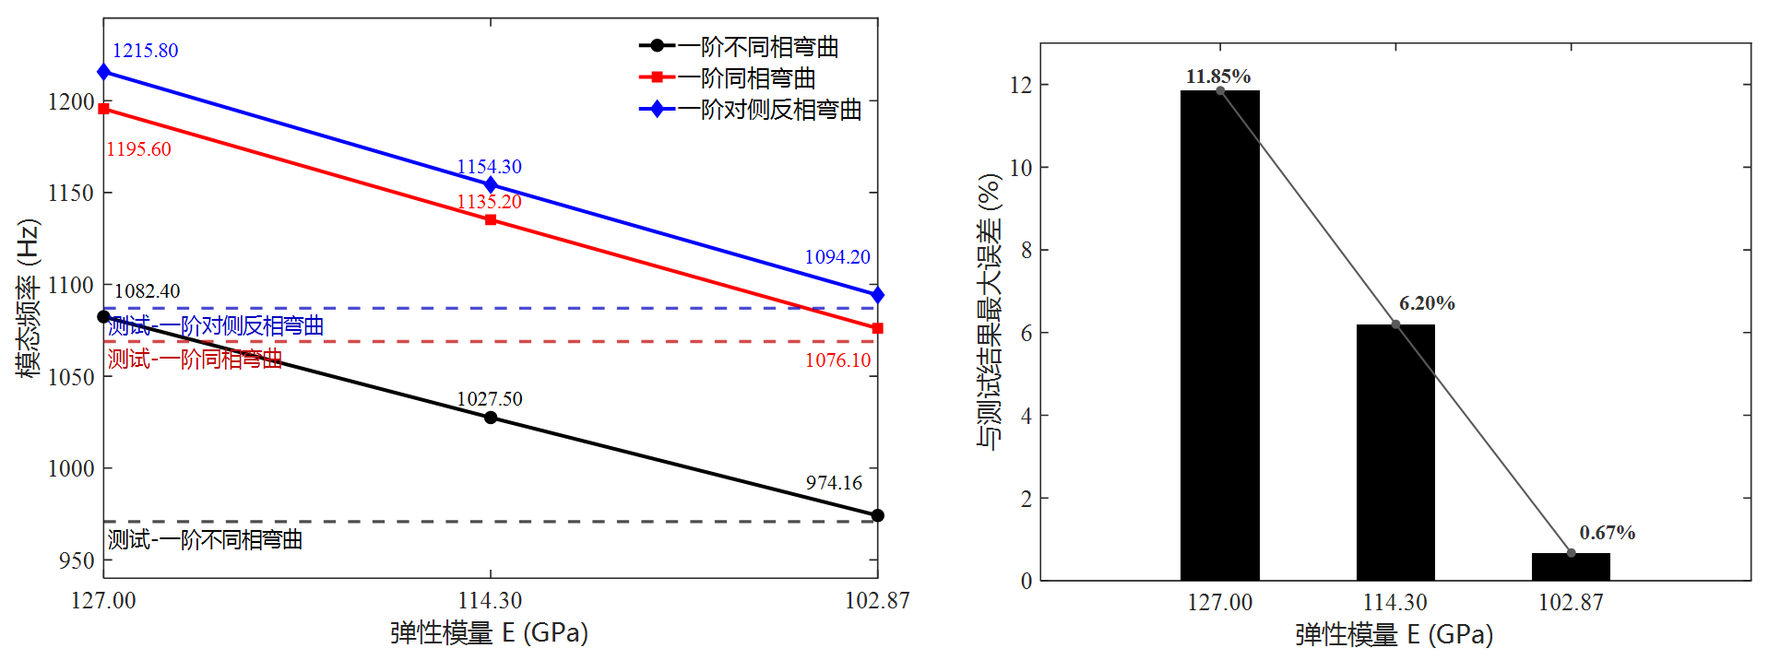
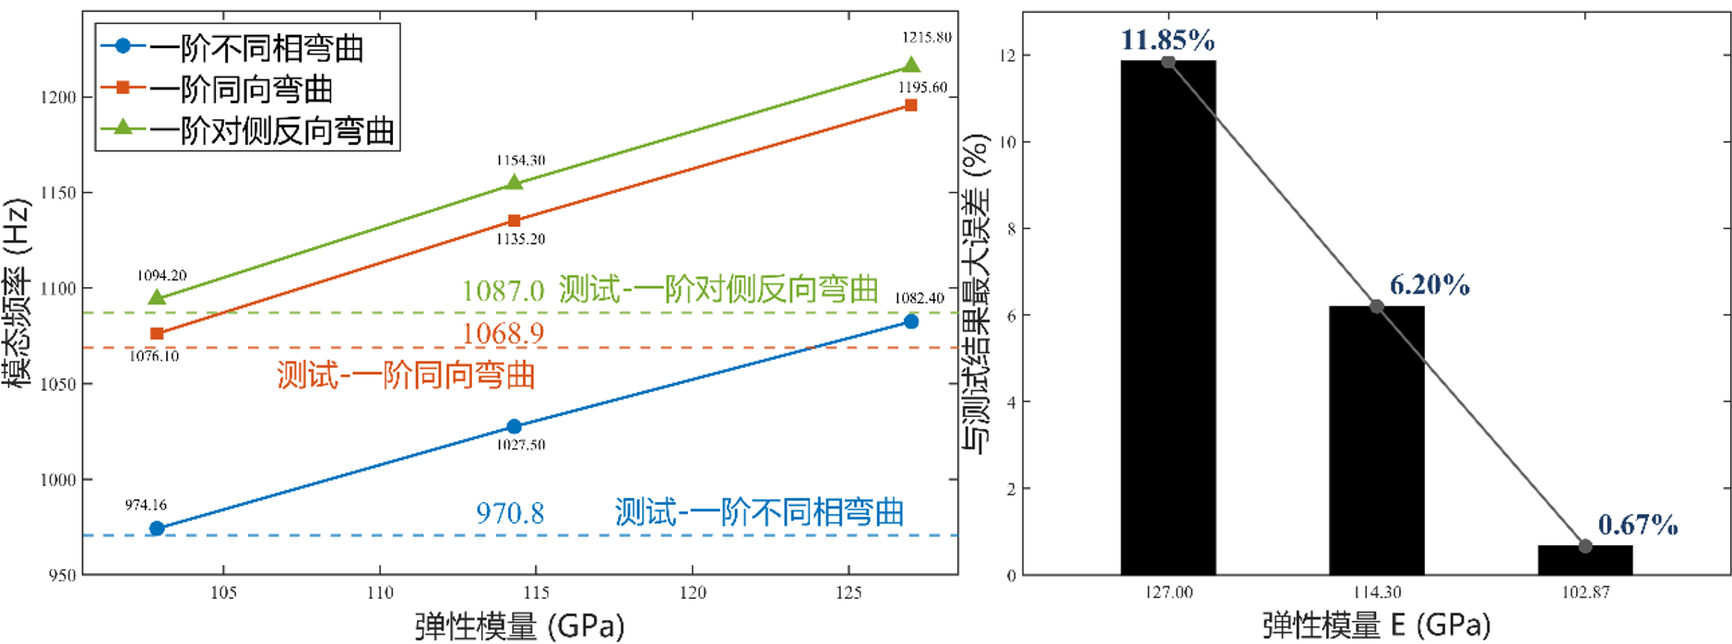
last version

diff --git a/pages/chapter5.tex b/pages/chapter5.tex
@@ -1,15 +1,23 @@
 \chapter{总结与展望}
 
-本文面向船用螺旋桨模态频率快速预测问题，围绕“有限元高精度仿真—模态测试验证—机器学习快速预测”这一技术路线开展研究。通过建立螺旋桨干/湿模态有限元仿真规程、开展模态测试验证，并构建干模态频率数据库，训练机器学习预测模型，最终形成了基于干模态预测结果和附连水修正系数的湿模态频率快速预报方法。
+\section{全文总结}
 
-在螺旋桨模态仿真方面，本文在有限元模态分析理论的基础上，建立了螺旋桨干模态与湿模态仿真计算规程。针对螺旋桨几何形状复杂、叶片厚度变化明显、局部模态对网格质量敏感等特点，从网格类型、网格尺寸、材料参数设置和求解流程等方面进行了规范化分析，确定了适用于螺旋桨干模态计算的有限元建模方法。在湿模态仿真方面，建立了结构域与流体域耦合模型，通过声学流体单元和结构-流体界面约束实现湿模态频率求解。以 DTMB4382 型螺旋桨为对象，应用该规程开展干/湿模态计算，获得了前 20 阶干模态频率和湿模态频率，并计算得到前 20 阶附连水频率修正系数，为后续湿模态快速预测提供了基础。
+本文面向船用螺旋桨模态频率快速预测问题，围绕“有限元高精度仿真--模态测试验证--机器学习快速预测”这一技术路线开展研究。通过建立螺旋桨干/湿模态有限元仿真规程、开展模态测试验证，并构建干模态频率数据库，训练机器学习预测模型，最终形成了基于干模态预测结果和附连水修正系数的湿模态频率快速预报方法。
+
+在螺旋桨模态仿真方面，本文在有限元模态分析理论的基础上，建立了螺旋桨干模态与湿模态仿真计算规程。针对螺旋桨几何形状复杂、叶片厚度变化明显、局部模态对网格质量敏感等特点，从网格类型、网格尺寸、材料参数设置和求解流程等方面进行了规范化分析，确定了适用于螺旋桨干模态计算的有限元建模方法。在湿模态仿真方面，建立了结构域与流体域耦合模型，通过声学流体单元和结构--流体界面约束实现湿模态频率求解。以 DTMB4382 型螺旋桨为对象，应用该规程开展干/湿模态计算，获得了前 20 阶干模态频率和湿模态频率，并计算得到前 20 阶附连水频率修正系数，为后续湿模态快速预测提供了基础。
 
 在数据库构建方面，本文基于参数化建模和自动化仿真技术，实现了螺旋桨干模态频率数据库的自动化构建。通过 Python 与 CadQuery 生成螺旋桨三维实体模型，利用 HyperMesh 批处理脚本完成模型导入与网格自动划分，并借助 Abaqus Python 脚本实现模态分析任务自动提交、结果读取和数据汇总。该流程将几何建模、网格划分、有限元求解和频率提取等步骤串联起来，形成了较完整的自动化仿真流程，构建了干模态频率数据库，为后续机器学习模型训练提供了数据基础。
 
 在螺旋桨模态测试方面，本文在讲述模态测试基本原理的基础上，开展了螺旋桨干模态与湿模态测试研究。针对高阶湿模态测试中存在的振型复杂、模态成簇、频响峰值衰减和信噪比较低等问题，建立了基于移动力锤法、加速度响应频响函数测试和模态参数辨识的测试流程。分别以某 10 叶螺旋桨和某 7 叶螺旋桨为对象，开展空气中和水中条件下的模态测试，获得了不同螺旋桨在干/湿模态下的频率与振型特征。其中，对 7 叶螺旋桨进一步开展干/湿模态有限元计算，并将仿真结果与测试结果进行对比。结果表明，计算频率与测试频率吻合较好，主要振型对应关系明确，说明本文建立的有限元仿真规程能够较准确地反映螺旋桨干/湿模态动力学特性。
 
-在机器学习预测方面，本文基于干模态频率数据库开展模型训练。首先采用 Pearson 相关系数和 Spearman 相关系数分析原始几何参数与模态频率之间的关系，筛选出相关系数均大于 0.1 的 24 个几何参数作为模型输入，实现输入变量降维。随后，分别训练随机森林回归、梯度提升回归、高斯过程回归和多层感知机四种模型，并采用随机搜索算法进行超参数优化。利用 MAE、RMSE、$R^2$ 和 MAPE 四种指标对模型性能进行评价后发现，多层感知机模型表现最优，其测试集整体 MAE 为 5.133937，RMSE 为 7.445019，$R^2$ 为 0.996914，MAPE 为 1.889931\%。该结果说明 MLP 能够较好学习螺旋桨关键几何参数与前 20 阶干模态频率之间的非线性映射关系，预测结果与有限元计算结果吻合程度较高。最后，本文将 MLP 预测得到的干模态频率与附连水频率修正系数结合，提出了以螺旋桨几何参数为输入、以干模态频率预测为基础，并结合附连水系数进行频率修正，最终获得湿模态频率的快速预测流程。
+在机器学习预测方面，本文基于干模态频率数据库开展模型训练。首先采用 Pearson 相关系数和 Spearman 相关系数分析原始几何参数与模态频率之间的关系，筛选出相关系数均大于 0.1 的 24 个几何参数作为模型输入，实现输入变量降维。随后，分别训练随机森林回归、梯度提升回归、高斯过程回归和多层感知机四种模型，并采用随机搜索算法进行超参数优化。利用 MAE、RMSE、$R^2$ 和 MAPE 四种指标对模型性能进行评价后发现，多层感知机模型表现最优，其测试集整体 MAE 为 5.133937，RMSE 为 7.445019，$R^2$ 为 0.996914，MAPE 为 1.889931\%。该结果说明 MLP 能够较好学习螺旋桨关键几何参数与前 20 阶干模态频率之间的非线性映射关系，预测结果与有限元计算结果吻合程度较高。最后，本文将 MLP 预测得到的干模态频率与附连水频率修正系数结合，提出了“几何参数输入--干模态频率预测--附连水系数修正--湿模态频率输出”的螺旋桨湿模态频率快速预测流程。
 
-不足与展望：本文仍存在一些不足。首先，本文主要完成了螺旋桨前 20 阶模态频率预测，尚未对更高阶局部模态进行系统建模；其次，湿模态频率主要通过干模态预测结果与附连水修正系数相乘得到，预测精度受修正系数适用范围限制。后续可在计算资源充足的条件下，进一步构建“螺旋桨几何参数—湿模态频率”数据库，直接训练湿模态预测模型，并结合更多试验数据提高模型的泛化能力和工程适用性。
+\section{未来展望}
 
-本文建立了从螺旋桨高精度有限元仿真、试验验证、自动化数据库构建到机器学习快速预测的完整研究路线。该方法能够在一定程度上减少传统有限元方法在多方案分析中反复建模和求解的计算成本，提高螺旋桨模态频率评估效率，为船用螺旋桨结构设计、模态避频分析和湿模态快速预报提供了一种可行的工程方法。
+本文围绕船用螺旋桨模态频率快速预测问题，建立了基于有限元仿真与机器学习代理模型的预测方法，并实现了由几何参数到干、湿模态频率的快速估计。但受研究周期、样本规模和建模方法的限制，仍存在进一步完善的空间：
+
+可以进一步开展高阶模态预测研究。本文主要针对螺旋桨前 20 阶模态频率开展预测研究，预测对象以低阶和中阶模态为主，而对 20 阶以上高阶局部模态的研究仍不充分。实际工作中，高阶局部模态可能与叶片局部振动、噪声辐射以及复杂流场激励有关，后续可进一步构建包含更高阶模态频率的数据库，提升模型对高阶局部振动特性的预测能力。
+
+可以进一步提高湿模态频率预测精度。本文湿模态频率预测采用“干模态频率预测结果结合附连水系数修正”的方法。该方法计算效率较高，但附连水系数本身受到螺旋桨几何形状、模态阶次、流体域建模范围和流固耦合计算精度等因素影响，因此其修正精度仍存在一定局限。后续可进一步扩大湿模态仿真样本数量，直接建立“螺旋桨几何参数--湿模态频率”数据库，从而减少附连水系数近似带来的误差。
+
+可以进一步扩展螺旋桨几何变量范围。本文样本集中螺旋桨翼型相对单一，主要关注直径、桨叶数、弦长和厚度等几何参数对模态频率的影响，尚未将翼型变化作为重要设计变量纳入模型输入。后续研究可将不同翼型参数引入样本设计，进一步扩充数据库规模，使机器学习模型能够学习翼型差异对螺旋桨刚度分布、质量分布及模态频率的影响规律，从而提高预测模型的适用范围和工程推广价值。

diff --git a/pages/enabstract.tex b/pages/enabstract.tex
@@ -1,7 +1,9 @@
 % 英文摘要
 
-Marine propellers are susceptible to complex vibration responses during operation due to non-uniform wake, blade-frequency excitation, and fluid–structure interaction. Their modal characteristics are directly related to the structural safety, vibration noise level, and service reliability of the propulsion system. Traditional finite element methods can calculate propeller modal frequencies with relatively high accuracy. However, in multi-parameter design and large-scale scheme evaluation, repeated geometric modeling, mesh generation, and finite element solution are required, resulting in high computational cost and low efficiency. Therefore, it is difficult to meet the demand for rapid prediction. To address this problem, this thesis proposes a rapid prediction method for the wet modal frequencies of marine propellers by combining high-precision finite element simulation, modal test validation, and machine learning surrogate models.
+Marine propellers are subjected to non-uniform wake, blade-frequency excitation, and fluid–structure interaction during operation, which may induce complex vibration responses. Their modal characteristics are directly related to the structural safety, vibration and noise performance, and service reliability of propulsion systems. Although conventional finite element methods can calculate propeller modal frequencies with relatively high accuracy, they require repeated geometric modeling, meshing, and finite element solution in multi-parameter design and large-scale scheme evaluation. As a result, their computational cost is high and their efficiency is insufficient for rapid prediction. To address this problem, this study proposes a rapid prediction method for the wet modal frequencies of marine propellers by integrating high-fidelity finite element simulation, modal test validation, and machine-learning surrogate modeling.
 
-In terms of high-precision finite element simulation, based on propeller modal analysis theory and finite element theory, a high-precision simulation procedure for dry and wet modal analysis of marine propellers is established. The key procedures, including element type selection, mesh size determination, material parameter setting and correction, and structural–fluid coupled modeling for wet modal analysis, are clarified. Taking the DTMB4382 propeller as an example, the first 20 dry and wet modal frequencies are calculated, and the corresponding added-water frequency correction coefficients are obtained, providing a basis for subsequent rapid prediction of wet modal frequencies. In terms of database construction, parameterized modeling and automated simulation techniques are combined. Python and CadQuery are used to generate three-dimensional propeller models, HyperMesh batch scripts are used for automatic mesh generation, and Abaqus Python scripts are used for modal calculation and frequency extraction. On this basis, a “propeller geometric parameters–dry modal frequencies” database is constructed, providing data support for machine learning model training. In terms of modal testing, a dry/wet modal testing procedure based on the moving hammer method, acceleration response frequency response function testing, and modal parameter identification is established. Dry and wet modal tests are carried out in air and water for a seven-bladed propeller and a ten-bladed propeller, respectively. The comparison between the simulation results and test results of the seven-bladed propeller verifies the accuracy and engineering applicability of the proposed simulation procedure.
+With respect to high-fidelity finite element simulation, a computational procedure for dry and wet modal analysis of propellers is established based on modal analysis theory and finite element theory. Key aspects such as element type selection, mesh size determination, material parameter setting and calibration, and coupled structural–fluid-domain modeling for wet modal analysis are specified. Taking the DTMB4382 propeller as an example, the first 20 dry and wet modal frequencies and the corresponding added-water frequency correction coefficients are obtained, providing a basis for subsequent rapid prediction of wet modal frequencies. In terms of database construction, parametric modeling and automated simulation techniques are combined. Three-dimensional propeller models are generated using Python and CadQuery, automatic meshing is performed through HyperMesh batch scripts, and modal calculations and frequency extraction are implemented using Abaqus Python scripts. A dry modal frequency database is thereby constructed to support machine-learning model training. In terms of modal testing, a dry/wet modal test procedure based on the roving hammer method, acceleration-response frequency response function measurement, and modal parameter identification is developed. Modal tests in air and water are conducted on a seven-bladed propeller and a ten-bladed propeller. The comparison between simulation and test results for the seven-bladed propeller verifies the accuracy and engineering applicability of the proposed simulation procedure.
 
-In terms of machine learning prediction, a dry modal frequency prediction model is developed based on the established “propeller geometric parameters–dry modal frequencies” database. First, Pearson correlation coefficients and Spearman correlation coefficients are used to analyze the correlation between the original geometric parameters and the first 20 dry modal frequencies. A total of 24 key geometric parameters, including propeller diameter, blade number, and the chord length and thickness at 11 radial sections, are selected as model inputs, thereby realizing input feature dimensionality reduction. Then, four machine learning models are constructed to predict the first 20 dry modal frequencies of the propeller, including Random Forest, Gradient Boosting Regression, Gaussian Process Regression, and Multi-Layer Perceptron. Random search is used for hyperparameter optimization. The prediction performance of the models is evaluated using four indicators: MAE, RMSE, R², and MAPE. The results show that the Multi-Layer Perceptron model achieves the best overall performance, with an MAE of 5.133937, an RMSE of 7.445019, an R² of 0.996914, and a MAPE of 1.889931\% on the test set. This indicates that the model can accurately learn the nonlinear mapping relationship between key propeller geometric parameters and dry modal frequencies. On this basis, the first 20 dry modal frequencies predicted by the Multi-Layer Perceptron model are combined with the added-water frequency correction coefficients, forming a rapid wet modal frequency prediction process of “geometric parameter input–dry modal frequency prediction–added-water coefficient correction–wet modal frequency output.”
+For machine-learning prediction, dry modal frequency prediction models are developed based on the constructed dry modal frequency database. Pearson and Spearman correlation coefficients are first used to analyze the relationships between the original geometric parameters and the first 20 dry modal frequencies. A total of 24 key geometric parameters, including propeller diameter, blade number, and the chord length and thickness at 11 radial sections, are selected as model inputs, thus reducing the dimensionality of the input features. Four machine-learning models, namely Random Forest, Gradient Boosting Regression, Gaussian Process Regression, and Multi-Layer Perceptron, are then constructed to predict the first 20 dry modal frequencies of the propeller. Random search is employed for hyperparameter optimization. The prediction performance of the models is evaluated using mean absolute error (MAE), root mean square error (RMSE), coefficient of determination (R²), and mean absolute percentage error (MAPE). The results show that the Multi-Layer Perceptron model achieves the best overall performance, with an overall MAE of 5.133937, RMSE of 7.445019, R² of 0.996914, and MAPE of 1.889931\% on the test set. This indicates that the model can accurately learn the nonlinear mapping between key propeller geometric parameters and dry modal frequencies. On this basis, the predicted first 20 dry modal frequencies obtained from the Multi-Layer Perceptron model are combined with the added-water frequency correction coefficients to establish a rapid prediction process for wet modal frequencies using propeller geometric parameters as inputs.
+
+The results demonstrate that the proposed method can significantly reduce the repeated finite element computational cost in propeller modal frequency evaluation while maintaining satisfactory prediction accuracy. It provides a feasible technical approach for modal frequency avoidance analysis, structural optimization design, and rapid wet modal frequency prediction of marine propellers.

diff --git a/pages/abstract.tex b/pages/abstract.tex
@@ -4,6 +4,6 @@
 
 在高精度有限元仿真方面，本文基于螺旋桨模态分析理论与有限元理论，建立了螺旋桨干模态与湿模态高精度仿真计算规程，明确了网格类型选择、网格尺寸确定、材料参数设置与修正以及湿模态结构域—流体域耦合建模等关键环节，并以DTMB4382型螺旋桨为例计算得到前20阶干/湿模态频率及对应附连水频率修正系数，为后续湿模态快速预测提供依据；在数据库构建方面，本文结合参数化建模与自动化仿真技术，通过Python与CadQuery生成螺旋桨三维模型，利用HyperMesh批处理脚本完成自动网格划分，并借助Abaqus Python脚本实现模态计算与频率提取，构建了干模态频率数据库，为机器学习模型训练提供数据基础；在模态测试方面，本文建立了基于移动力锤法、加速度响应频响函数测试和模态参数辨识的干/湿模态测试流程，以某7叶螺旋桨和某10叶螺旋桨为对象开展空气中和水中模态测试，并通过7叶螺旋桨仿真结果与测试结果对比，验证了所建立仿真规程的准确性和工程适用性。
 
-在机器学习预测方面，本文基于已构建的干模态频率数据库，开展螺旋桨干模态频率预测模型研究。首先采用Pearson相关系数和Spearman相关系数对原始几何参数与前20阶干模态频率之间的相关性进行分析，筛选出螺旋桨直径、桨叶数以及11个半径截面处的弦长和厚度共24个关键几何参数作为模型输入，实现输入特征降维。随后，分别构建随机森林模型（Random Forest）、梯度提升回归模型（Gradient Boosting）、高斯过程回归模型（Gaussian Process）和多层感知机模型（Multi-Layer Perceptron）四种机器学习模型预测螺旋桨前20阶干模态频率，并采用随机搜索算法进行超参数优化。通过平均绝对误差（MAE）、均方根误差（RMSE）、决定系数（R²）和平均绝对百分比误差（MAPE）四种评价指标对模型预测性能进行对比，结果表明，多层感知机模型综合表现最优，其在测试集上的整体MAE为5.133937，RMSE为7.445019，R²为0.996914，MAPE为1.889931\%，能够较准确地学习螺旋桨关键几何参数与干模态频率之间的非线性映射关系。在此基础上，本文将多层感知机模型预测得到的前20阶干模态频率与附连水频率修正系数相结合，本文构建了以螺旋桨几何参数为输入、以干模态频率预测为基础，并结合附连水系数进行频率修正，最终构建了以螺旋桨几何参数为输入、以干模态频率预测为基础，并结合附连水系数进行频率修正，最终获得湿模态频率的快速预测流程。
+在机器学习预测方面，本文基于已构建的干模态频率数据库，开展螺旋桨干模态频率预测模型研究。首先采用Pearson相关系数和Spearman相关系数对原始几何参数与前20阶干模态频率之间的相关性进行分析，筛选出螺旋桨直径、桨叶数以及11个半径截面处的弦长和厚度共24个关键几何参数作为模型输入，实现输入特征降维。随后，分别构建随机森林模型（Random Forest）、梯度提升回归模型（Gradient Boosting）、高斯过程回归模型（Gaussian Process）和多层感知机模型（Multi-Layer Perceptron）四种机器学习模型预测螺旋桨前20阶干模态频率，并采用随机搜索算法进行超参数优化。通过平均绝对误差（MAE）、均方根误差（RMSE）、决定系数（R²）和平均绝对百分比误差（MAPE）四种评价指标对模型预测性能进行对比，结果表明，多层感知机模型综合表现最优，其在测试集上的整体MAE为5.133937，RMSE为7.445019，R²为0.996914，MAPE为1.889931\%，能够较准确地学习螺旋桨关键几何参数与干模态频率之间的非线性映射关系。在此基础上，本文将多层感知机模型预测得到的前20阶干模态频率与附连水频率修正系数相结合，构建了以螺旋桨几何参数为输入、以干模态频率预测为基础，并结合附连水系数进行频率修正，最终获得湿模态频率的快速预测流程。
 
 研究结果表明，本文提出的方法能够在保证一定预测精度的基础上显著降低螺旋桨模态频率评估过程中的重复有限元计算成本，为船用螺旋桨模态避频分析、结构优化设计和湿模态频率快速预报提供了一种可行的技术路径。

diff --git a/demo.tex b/demo.tex
@@ -92,13 +92,15 @@
 
 % 致谢
 \begin{acknowledgements}
-本论文在冯朝老师的指导下完成。衷心感谢冯老师在选题、开题及论文研究与撰写过程中所提供的指导。冯老师在研究思路、论文结构与表达规范等方面提出了诸多宝贵建议，在此谨致以诚挚的谢意。
+本论文是在冯朝老师的悉心指导下完成的。衷心感谢冯老师在论文选题、开题论证、研究推进以及论文撰写与修改过程中给予我的耐心指导和帮助，使我得以较为顺利地完成毕业论文的各项工作。冯老师为人平易近人、温文尔雅，治学严谨而又循循善诱。回想大一时，我有幸向冯老师请教科研方面的问题，冯老师不仅耐心解答了我的疑惑，也给予了我许多启发性的指导，鼓励我大胆探索自己感兴趣的研究方向。这段经历对我影响深远，也在很大程度上奠定了我本科四年不断学习、主动探索的成长道路。在毕业论文研究过程中，冯老师在研究思路梳理、技术路线确定、论文结构安排以及文字表达规范等方面提出了许多宝贵建议。每一次交流与指导都使我对课题内容有了更加深入的理解，也促使我不断完善研究方法、改进论文表达。冯老师严谨认真的学术态度、耐心细致的指导方式以及对学生成长的关怀，都令我受益匪浅。
+
+还要衷心感谢肖晓晖老师在本科四年学习与成长过程中给予我的关心和帮助。肖老师治学严谨、学术造诣深厚，同时始终心系学生、关爱本科生的成长与发展。在大三保研期间，肖老师为我撰写了多封推荐信，为我继续深造提供了重要支持，也给予了我走出母校、迈向更广阔平台的信心与力量。我有幸在大三期间学习了肖老师讲授的《测试原理》和《机器人学》两门课程。课堂上，肖老师讲授深入浅出、循循善诱，对教学内容的精心准备和对课堂效果的认真投入令我印象深刻，也使我在专业知识、工程思维和科研认识等方面受益良多。肖老师严谨认真的治学态度、诲人不倦的教学精神以及对学生真诚的关怀，都将成为我今后学习和成长道路上的重要激励。
 
 衷心感谢上海交通大学黄修长老师对我毕业论文的细致指导。在选题、开题及论文撰写的各个阶段，黄老师以其深厚的学术造诣与严谨的治学态度，为我提供了全方位的指导。在最终讨论湿模态频率预测思路时，黄老师与我多次深入交流，并结合时间条件与计算资源，建议采用附连水修正系数，为本研究的顺利开展奠定了坚实基础。
 
 感谢实验室诸位师兄在研究过程中给予我的指导与帮助。感谢朱梓睿师兄耐心地指导我逐步掌握HyperMesh与Abaqus软件的模态仿真方法，并悉心传授螺旋桨干模态与湿模态测试实验的操作流程，朱师兄的悉心教导使我这个初涉该领域的学生获得了完成研究的信心；感谢汤王豪师兄指导我进行螺旋桨的参数化建模，并协助解决仿真所需的服务器与超算资源问题；感谢沈曦师兄在洛阳实验期间给予我的指导与关照。
 
-感谢朋友给予我的帮助与陪伴，大学四年里，有你们陪在身边，学业的路上就不再孤单。感谢徐嘉泓、马鑫晨、刘昱辰、韩嘉烁、汪贤、张森波，我们一同聚餐、交流与娱乐，这些活动成为我学习之余最为有效的放松方式。
+感谢朋友给予我的帮助与陪伴，大学四年里，有你们陪在身边，学业的路上就不再孤单。感谢徐嘉泓、马鑫晨、刘昱辰、韩嘉烁、汪贤、张森波、江知昊、马思达、高建宇，我们一同聚餐、交流与娱乐，这些活动成为我学习之余最为有效的放松方式。
 
 最后，感谢家人始终如一的理解与鼓励，他们的支持始终是我在科研道路上不断前行的动力源泉。
 \end{acknowledgements}
